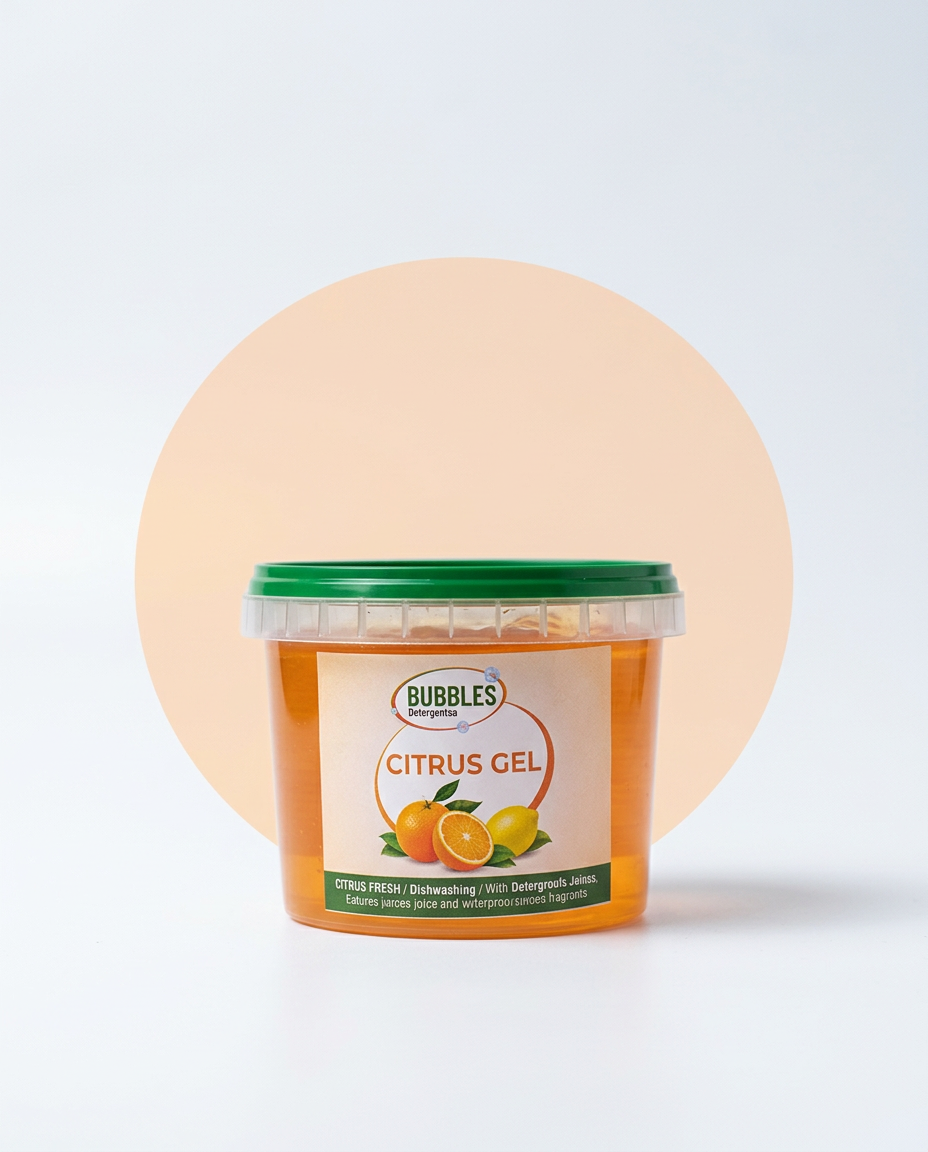
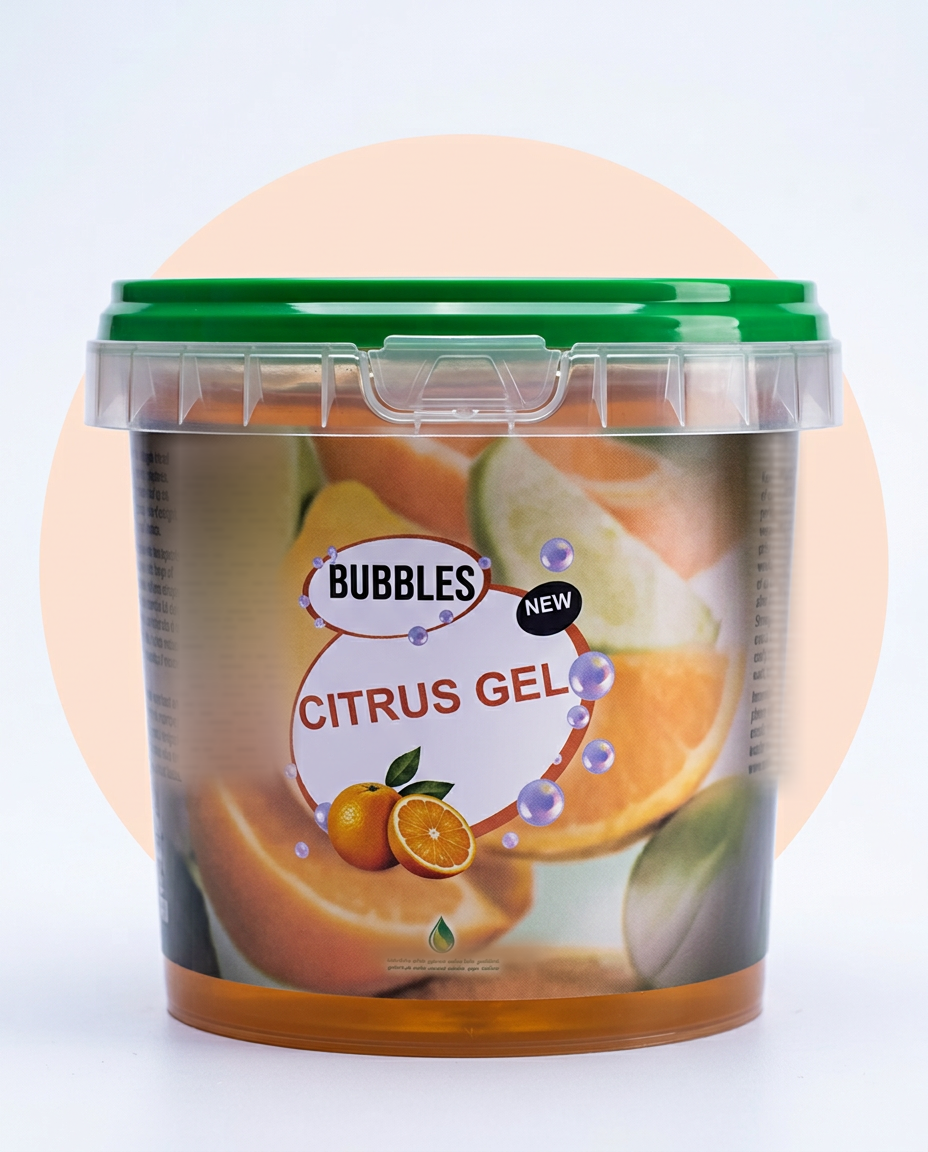
Citrus Gel: rebuild from her range photograph
Third-generation tub, and the first time Citrus Gel has had a real reference.
It is not in any of the close-up photographs -- it only appears in the full
range shot IMG-20261118-WA0031.jpg, tucked under the Pine Gel tub at lower
left. Magnifying that region 10x and 13x made the label readable.

Five things the old render had wrong:

1. The lid. I had a flat green lid with a ribbed clear band. The real tub has
   the same recessed green lid plus clear snap-on gusseted collar as Pine Gel.
   Same mould family.
2. The artwork was missing entirely. The label is not a plain white panel: it is
   filled edge to edge with a large stylised citrus slice, soft out-of-focus
   wedges of amber, orange and pale olive-green radiating from a centre. This
   was the biggest visual difference and I had rendered none of it.
3. CITRUS GEL is brick red / terracotta, not orange.
4. The fruit sits at the lower left of the white blob, not the lower right.
5. No amber gel was visible through the tub wall.

Composition measured: 69.1% width / 67.7% height, margins L129 R157 T277 B94.
Slightly smaller than Pine Gel (73.3% / 70.9%) deliberately -- it is the
smaller tub, and keeping that difference stops the pair reading as clones.

tools/soften-fineprint.py now clips to the product by default. An over-generous
region was dragging the blur and the fake print rows onto the studio sweep,
leaving grey haze and stray bars beside the tub; it now intersects each region
[…]

diff --git a/src/data/products.ts b/src/data/products.ts
@@ -227,7 +227,7 @@ export const PRODUCTS: Product[] = [
     price: 65,
     size: '200g Tub',
     description:
-      'Citrus gel in a 200g clear tub with a green lid. Cuts through grease on kitchen and bathroom surfaces.',
+      'Citrus gel in a 200g translucent tub with a recessed green lid and a clear snap-on collar. Cuts through grease on kitchen and bathroom surfaces.',
     image: '/images/bubbles/bubbles-citrus-gel-tub.png',
   },
   {

diff --git a/tools/soften-fineprint.py b/tools/soften-fineprint.py
@@ -19,6 +19,12 @@ So we do it deterministically, after generation:
      what the real pack does (dark print on the bright green third, white print
      on the near-black third where the label curves into shadow).
 
+Everything is CLIPPED TO THE PRODUCT by default (`--clip`, on unless disabled).
+A rectangular region that is a little too generous otherwise drags the blur —
+and the fake print rows — out over the studio background, which shows up as a
+grey haze and stray bars floating beside the product. Clipping intersects each
+region with a backdrop-deviation mask so nothing outside the pack is touched.
+
 Usage:
     python3 tools/soften-fineprint.py IMAGE --region X0,Y0,X1,Y1:mode [...]
 
@@ -38,6 +44,37 @@ import numpy as np
 from PIL import Image, ImageDraw, ImageFilter
 
 WIDE_BLUR = 40  # glyphs cannot survive this
+
+
+def product_mask(im, tol=26):
+    """1 where the pixel differs from the sampled backdrop, i.e. on the product.
+
+    The backdrop is sampled from the frame corners. `tol` is generous enough to
+    keep a translucent tub wall and a soft contact shadow, tight enough to drop
+    the sweep.
+    """
+    a = np.asarray(im, np.float32)
+    h, w = a.shape[:2]
+    k = max(6, min(h, w) // 40)
+    corners = np.concatenate(
+        [
+            a[:k, :k].reshape(-1, 3),
+            a[:k, -k:].reshape(-1, 3),
+            a[-k:, :k].reshape(-1, 3),
+            a[-k:, -k:].reshape(-1, 3),
+        ]
+    )
+    bg = np.median(corners, 0)
+    dev = np.abs(a - bg[None, None, :]).max(2)
+    mask = (dev > tol).astype(np.float32)
+    # close small holes so the fake print does not get cut by label highlights
+    mask = np.asarray(
+        Image.fromarray((mask * 255).astype(np.uint8)).filter(
+            ImageFilter.MaxFilter(9)
+        ).filter(ImageFilter.GaussianBlur(1.5)),
+        np.float32,
+    ) / 255.0
+    return mask
 
 
 def feather_mask(size, box, feather):
@@ -90,6 +127,11 @@ def main():
     ap.add_argument("--seed", type=int, default=53)
     ap.add_argument("--strength", type=float, default=0.4, help="print opacity")
     ap.add_argument("--feather", type=int, default=30)
+    ap.add_argument(
+        "--no-clip",
+        action="store_true",
+        help="allow the treatment to extend past the product (usually wrong)",
+    )
     args = ap.parse_args()
 
     im = Image.open(args.image).convert("RGB")
@@ -102,10 +144,13 @@ def main():
         x0, y0, x1, y1 = (int(v) for v in coords.split(","))
         regions.append(((x0, y0, x1, y1), mode))
 
+    clip = 1.0 if args.no_clip else product_mask(im)
+
     # 1. erase the existing glyphs
     mask = np.zeros((h, w), np.float32)
     for box, _ in regions:
         mask = np.maximum(mask, feather_mask((w, h), box, args.feather))
+    mask = mask * clip
     mask = np.clip(mask, 0, 1)[..., None]
     base = np.asarray(wide, np.float32) * mask + np.asarray(im, np.float32) * (1 - mask)
 
@@ -113,6 +158,7 @@ def main():
     for i, (box, mode) in enumerate(regions):
         alpha = print_rows((w, h), box, mode, args.seed + i, args.strength)
         alpha *= feather_mask((w, h), box, 40)
+        alpha *= clip
         alpha = alpha[..., None]
         colour = 255.0 if mode == "light" else 14.0
         base = base * (1 - alpha) + colour * alpha

diff --git a/docs/FELIZ.md b/docs/FELIZ.md
@@ -454,3 +454,45 @@ a sharp background. Regenerating and measuring is cleaner than compositing.
 `tools/soften-fineprint.py`, but the lesson is that the region must cover the WHOLE print column to the
 label's outer edge — my first two attempts started ~40px too far right and left the first words of each
 line readable. Correct regions for this tub: left `150,414 -> 392,792`, right `600,414 -> 820,796`.
+
+### Turn 85 — Citrus Gel, rebuilt from her own photograph
+
+Third-generation tub, and the first time Citrus Gel has had a real reference. It is not on any of the
+close-up shots: it appears only in the full-range photograph `IMG-20261118-WA0031.jpg` (repo copy:
+`public/images/reference/gladchemistry-range.jpg`), tucked under the Pine Gel tub at the lower left.
+Cropping and magnifying that region 10x and 13x gave a readable label.
+
+**What the old render had wrong — five things:**
+
+1. **The lid.** I had a flat green lid with a ribbed clear band. The real tub has the same
+   **recessed green lid plus clear snap-on gusseted collar** as Pine Gel. Same mould family.
+2. **The artwork was missing entirely.** The label is not a plain white panel — it is filled edge to
+   edge with a large stylised **citrus slice**: soft out-of-focus wedges of amber-orange, orange and
+   pale olive-green radiating from a centre, like a giant cut fruit seen close up. This was the single
+   biggest visual difference and I had rendered nothing of it.
+3. **"CITRUS GEL" is brick red / terracotta**, not orange. I had rendered it orange.
+4. **The fruit sits at the LOWER LEFT of the white blob** — one whole orange with two leaves, one cut
+   orange showing segments. I had it lower right.
+5. **No amber gel visible** through the tub wall. The real tub glows amber above and below the label.
+
+**Composition, measured:** tub at **69.1% width / 67.7% height**, margins L129 R157 T277 B94. Slightly
+smaller than Pine Gel (73.3% / 70.9%) on purpose — it is the smaller tub of the two, and keeping that
+difference is what stops the pair looking like clones of each other.
+
+**Tool fix this turn.** `tools/soften-fineprint.py` now CLIPS to the product by default. A rectangular
+region that is a little too generous was dragging the blur and the fake print rows out over the studio
+sweep, leaving a grey haze and stray bars floating beside the tub. It intersects every region with a
+backdrop-deviation mask, so nothing outside the pack is touched. `--no-clip` restores the old behaviour.
+
+**Two self-inflicted dead ends, recorded so they are not repeated:**
+- Patching a single invented line by hand with a sampled-gradient rectangle left a **visible grey box**.
+  Filling flat colour inside a label never blends; the label underneath is not uniform.
+- Guessing region coordinates cost three attempts and one of them **erased the "C" of "CITRUS GEL"**,
+  leaving "ITRUS GEL". The fix is to overlay a graduated coordinate grid on the render and read the
+  column bounds off it: left column x 150-302, right column x 745-808, bottom brand line y 928-982.
+  Measure the region, do not estimate it.
+
+Also: the model invented a phone number, a street address and a website in the label footer on the
+first generation of this tub, and a nonsense subtitle ("Famourts · Citres · Pytate") on the second.
+Both were caught by reading the render at 3x before shipping. The subtitle is now suppressed by
+instructing that the strip beneath the title be left blank, which worked.
